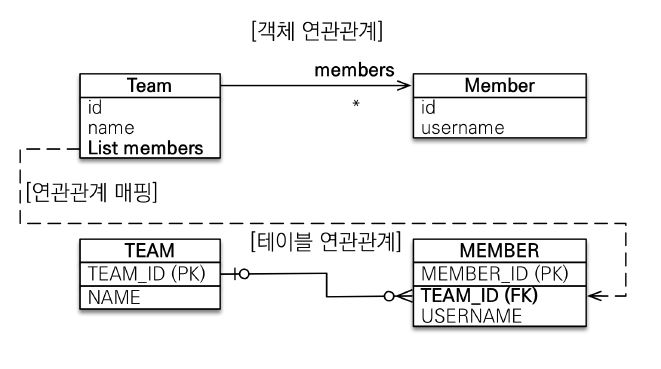
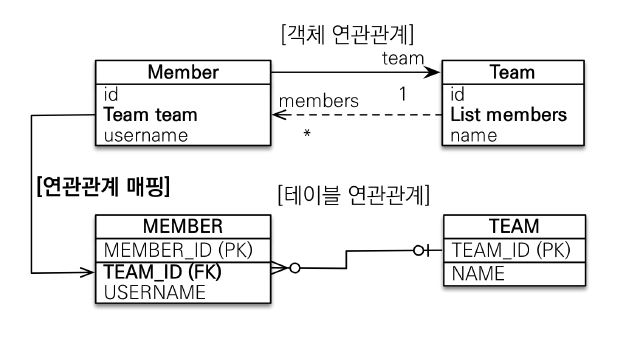
JPA_7 포스팅

Changed region(s): [[0.0301, 0.0623, 0.9635, 0.9037], [0.4818, 0.3739, 0.5119, 0.4051]]

diff --git a/_posts/2021-11-09-JPA7.md b/_posts/2021-11-09-JPA7.md
@@ -1,0 +1,122 @@
+---
+title: 연관관계 매핑 기본
+author: sunghoon
+date: 2021-11-09 14:05:00 +0900
+categories: [JPA]
+tags: [JPA, ORM, Hibernate]
+pin: false
+comments: true
+--- 
+
+# 다양한 연관관계 매핑
+---
+
+## 연관관계 매핑시 고려사항 3가지
+### 다중성  
+- 다대일 : @ManyToOne
+- 일대다 : @OneToMany
+- 일대일 : @OneToOne
+- 다대다 : @ManyToMany  
+### 단방향, 양방향  
+- 테이블
+	- 외래키 하나로 양쪽 조인 가능
+	- 사실 방향이라는 개념이 없음
+- 객체  
+	- 참조용 필드가 있는 쪽으로만 참조 가능  
+	- 한쪽만 참조하면 단방향
+	- 양쪽이 서로 참조하면 양방향  
+### 연관관계의 주인  
+- 테이블은 외래키 하나로 두 테이블이 연관관계를 맺음
+- 객체 양방향 관계는 A->B, B->A처럼 참조가 2군데
+- 객체 양방향 관계는 참조가 2군데 있음. 둘 중 테이블의 외래키를 관리할 곳을 지정해야함  
+- 연관관계의 주인 : 외래키를 관리하는 참조
+- 주인의 반대편 : 외래키에 영향을 주지 않음, 단순 조회만 가능  
+- **외래키가 있는 곳을 연관관계의 주인으로 설정!**  
+
+## 다대일 [N:1] - @ManyToOne
+### 다대일 단방향  
+- 가장 많이 사용하는 연관관계   
+- 다대일의 반대는 일대다  
+![사진1](/assets/img/JPA_7/JPA_7_1.jpg)
+
+### 다대일 양방향  
+- 외래키가 있는 쪽이 연관관계의 주인  
+- 양쪽을 서로 참조하도록 개발  
+![사진2](/assets/img/JPA_7/JPA_7_2.jpg)
+
+## 일대다 [1:N] - @OneToMany
+
+### 일대다 단방향  
+![사진3](/assets/img/JPA_7/JPA_7_3.jpg)  
+  
+- 일대다 단방향은 일대다(1:N)에서 **일(1)이 연관관계의 주인**  
+- 테이블 일대다 관계는 **항상 다(N) 쪽에 외래 키가 있음**  
+- 객체와 테이블의 차이 때문에 반대편 테이블의 외래 키를 관리하는 특이한 구조  
+- @JoinColumn을 꼭 사용해야 함. 그렇지 않으면 조인 테이블 방식을 사용함(중간에 테이블을 하나 추가함)  
+- 일대다 단방향 매핑의 단점     
+	- 엔티티가 관리하는 외래 키가 다른 테이블에 있음  
+	- 연관관계 관리를 위해 추가로 UPDATE SQL 실행
+  
+- 일대다 단방향 매핑보다는 다대일 양방향 매핑을 사용하도록 권장  
+
+### 일대다 양방향  
+![사진4](/assets/img/JPA_7/JPA_7_4.jpg)  
+
+- 이런 매핑은 공식적으로 존재안함  
+- @JoinColumn(insertable=false, updatable=false)
+- 읽기 전용 필드를 사용해서 양방향 처럼 사용하는 방법
+- **다대일 양방향을 사용 권장**
+
+## 일대일 [1:1] - @OneToOne  
+- 일대일 관계는 그 반대도 일대일
+- 주 테이블이나 대상 테이블 중에 외래 키 선택 가능
+	- 주 테이블에 외래키
+	- 대상 테이블에 외래키
+- 외래키에 데이터베이스 유니크(UNI) 제약조건 추가  
+
+### 주 테이블에 외래키 단방향  
+- 다대일(@ManyToOne) 단방향 매핑과 유사  
+![사진5](/assets/img/JPA_7/JPA_7_5.jpg)  
+  
+### 주 테이블에 외래키 양방향  
+- 다대일 양방향 매핑 처럼 외래 키가 있는 곳이 연관관계의 주인  
+- 반대편은 mappedBy 적용  
+![사진6](/assets/img/JPA_7/JPA_7_6.jpg)  
+
+### 대상 테이블에 외래키 단방향 
+- 단방향 관계는 JPA 지원X   
+![사진7](/assets/img/JPA_7/JPA_7_7.jpg)  
+
+### 대상 테이블에 외래키 양방향
+- 일대일 주 테이블에 외래 키 양방향과 매핑 방법은 같음
+![사진8](/assets/img/JPA_7/JPA_7_8.jpg)  
+
+- 주 테이블에 외래 키
+	- 주 객체가 대상 객체의 참조를 가지는 것 처럼
+	- 주 테이블에 외래 키를 두고 대상 테이블을 찾음
+	- 객체지향 개발자 선호
+	- JPA 매핑 편리
+	- 장점: 주 테이블만 조회해도 대상 테이블에 데이터가 있는지 확인 가능  
+	- 단점: 값이 없으면 외래 키에 null 허용  
+- 대상 테이블에 외래 키
+	- 대상 테이블에 외래 키가 존재
+	- 전통적인 데이터베이스 개발자 선호
+	- 장점: 주 테이블과 대상 테이블을 일대일에서 일대다 관계로 변경할 때 테이블 구조 유지
+	- 단점: 프록시 기능의 한계로 지연 로딩으로 설정해도 항상 즉시 로딩됨  
+
+## 다대다 [N:N] - @ManyToMany  
+
+- 관계형 데이터베이스는 정규화된 테이블 2개로 다대다 관계를 표현할 수 없음
+![사진9](/assets/img/JPA_7/JPA_7_9.jpg)  
+
+- 연결 테이블을 추가해서 일대다, 다대일 관계로 표현해야함  
+- @JoinTable로 연결 테이블용 엔티티 추가 (연결 테이블을 엔티티로 승격)  
+- 실무에서 사용X  
+- @ManyToMany를 @OneToMany, @ManyToOne으로 쪼개서 사용하는게 바람직  
+![사진10](/assets/img/JPA_7/JPA_7_10.jpg)  
+
+
+
+
+(출처 : 자바 ORM 표준 JPA 프로그래밍 - 김영한 저)  
+![출처책표지](/assets/img/JPA_book.jpg)
